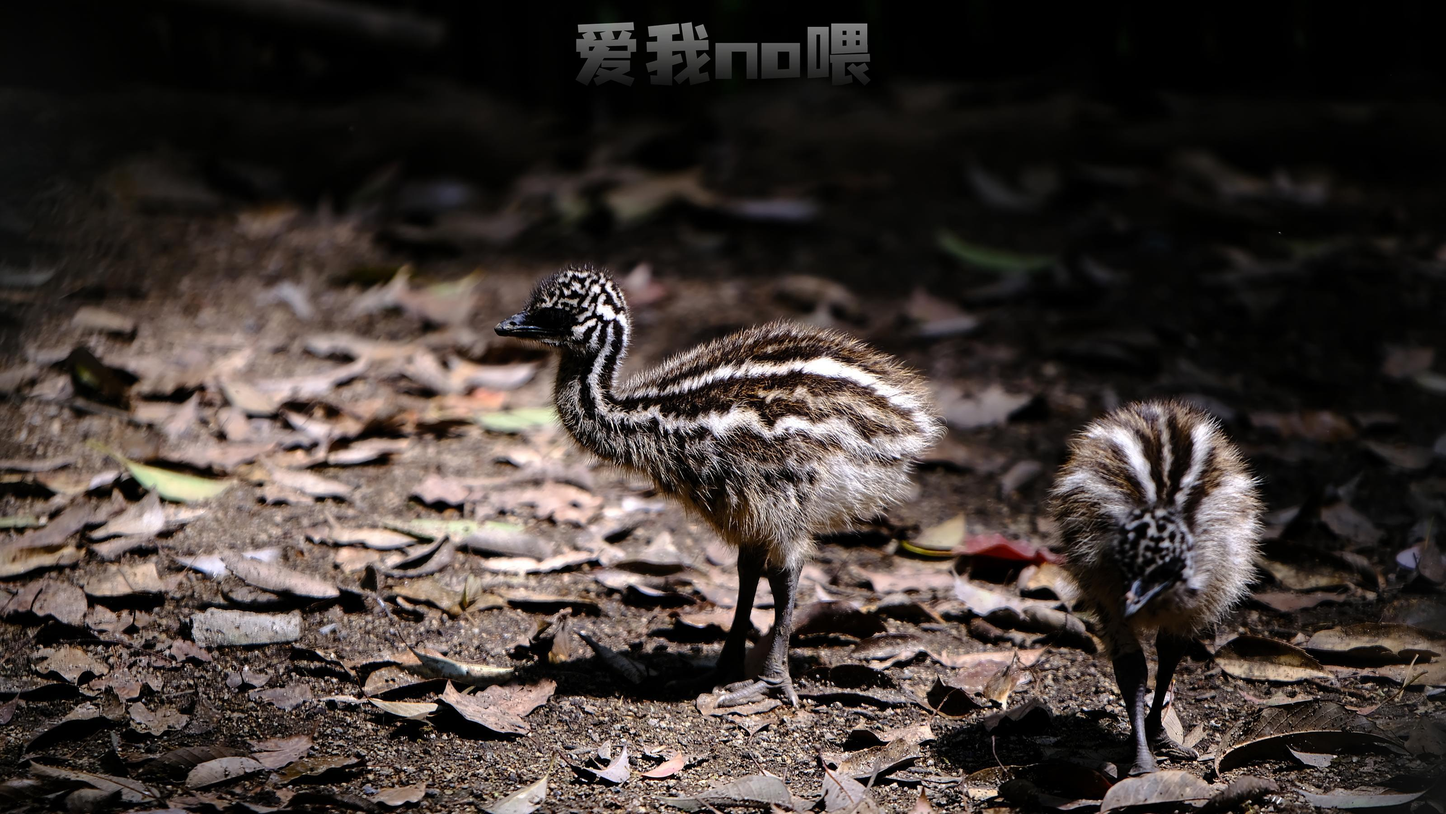
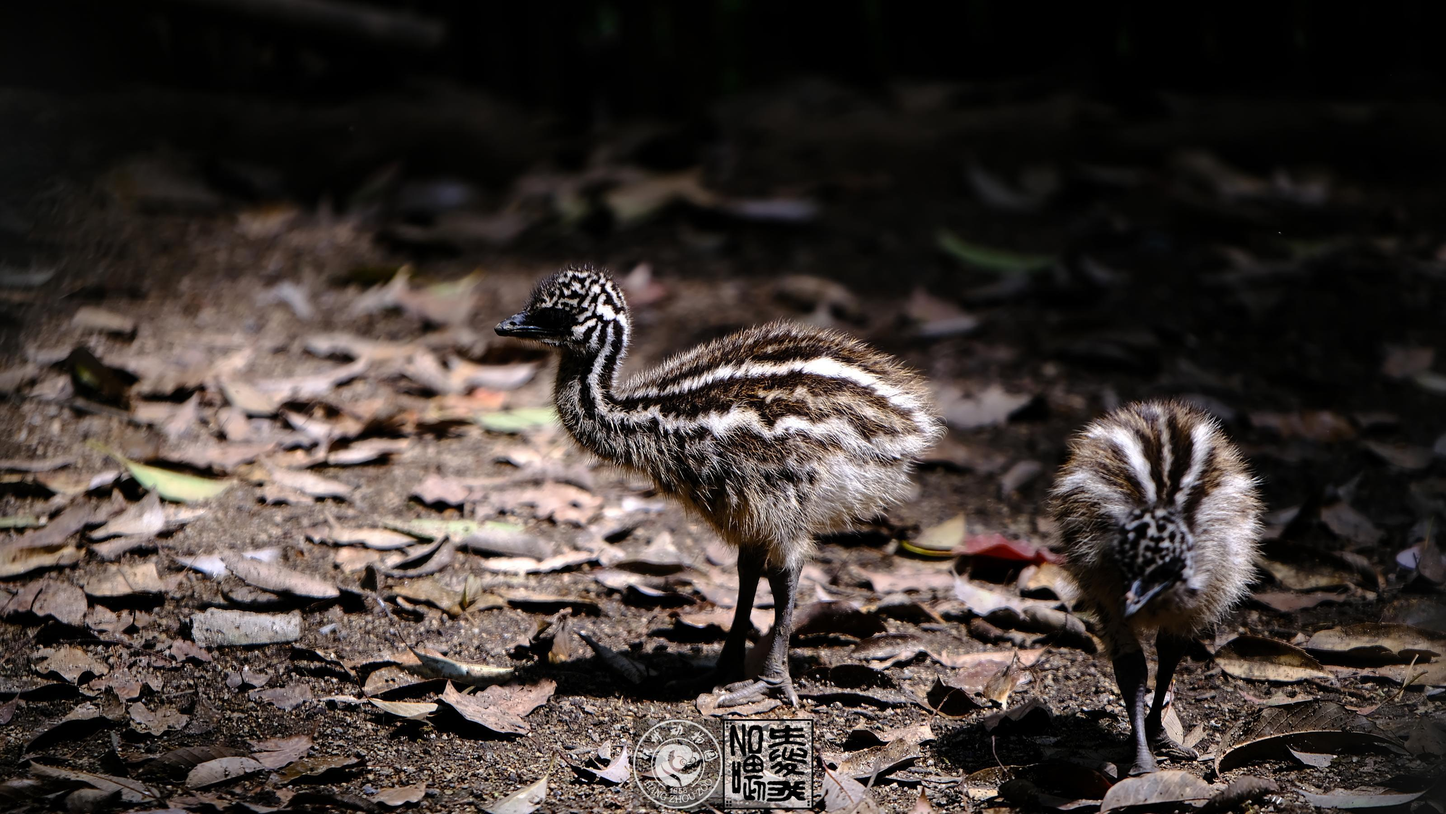
type: update level: normal comment: update water-ink design

Changed region(s): [[0.375, 0.0311, 0.625, 0.1244], [0.4375, 0.8706, 0.5625, 0.995]]

diff --git a/tools.py b/tools.py
@@ -543,14 +543,14 @@ layout: default
 
 if __name__ == '__main__':
     hp = HelloPhoto()
-    # hp.encrypt_raw(path_in='/home/zoo/_L/Zoo-HZ-Media-Volunteers/static/images/raw/202105/20210515ZouBinBin')
+    # hp.encrypt_raw(path_in='/home/zoo/_L/Zoo-HZ-Media-Volunteers/static/images/raw/202105/20210520WaterInk')
     # hp.create_page_info(_path_images_raw)
     # hp.render_all(do_filter=True)
     # hp.just_render_md()
     # hp.render_all()
     #
-    hp.render_markdown(
-        path_in='/home/zoo/_L/Zoo-HZ-Media-Volunteers/static/images/webp-resize-2000/202105/20210520WaterInk',
-        path_out='/home/zoo/_L/Zoo-HZ-Media-Volunteers/mds/webp-resize-2000/202105/20210520WaterInk.md'
-    )
-    hp.just_render_home_page()
+    # hp.render_markdown(
+    #     path_in='/home/zoo/_L/Zoo-HZ-Media-Volunteers/static/images/webp-resize-2000/202105/20210520WaterInk',
+    #     path_out='/home/zoo/_L/Zoo-HZ-Media-Volunteers/mds/webp-resize-2000/202105/20210520WaterInk.md'
+    # )
+    # hp.just_render_home_page()

diff --git a/mds/webp-resize-2000/202105/20210520WaterInk.md b/mds/webp-resize-2000/202105/20210520WaterInk.md
@@ -1,32 +1,41 @@
 ---
 layout: default
 ---
-### 摄影: WaterInk
-### 描述: 
+### 设计: 吴燕 潘雨朦 李超 周涛 章莹佳 徐玥 李大 徐淑凝 邹斌斌
+### 描述: 水印设计png & 效果图
 ### 提交时间: 20210520
+
+##### size: 0.08M
+![header.png](/Zoo-HZ-Media-Volunteers/static/images/webp-resize-2000/202105/20210520WaterInk/header.png)
 
 ##### size: 0.59M, 东方白鹳
 ![东方白鹳.JPG](/Zoo-HZ-Media-Volunteers/static/images/webp-resize-2000/202105/20210520WaterInk/东方白鹳.JPG)
 
-##### size: 0.16M, 
+##### size: 0.16M
 ![fix.吴燕.png](/Zoo-HZ-Media-Volunteers/static/images/webp-resize-2000/202105/20210520WaterInk/fix.吴燕.png)
+
+##### size: 0.26M, 双角犀鸟
+![双角犀鸟.JPG](/Zoo-HZ-Media-Volunteers/static/images/webp-resize-2000/202105/20210520WaterInk/双角犀鸟.JPG)
+
+##### size: 0.28M
+![fix.潘雨朦.黑.png](/Zoo-HZ-Media-Volunteers/static/images/webp-resize-2000/202105/20210520WaterInk/fix.潘雨朦.黑.png)
 
 ##### size: 0.25M, 大红鹳
 ![大红鹳.JPG](/Zoo-HZ-Media-Volunteers/static/images/webp-resize-2000/202105/20210520WaterInk/大红鹳.JPG)
 
-##### size: 0.18M, 
+##### size: 0.18M
 ![fix.李超.黑.png](/Zoo-HZ-Media-Volunteers/static/images/webp-resize-2000/202105/20210520WaterInk/fix.李超.黑.png)
 
-##### size: 0.42M, 孔雀
+##### size: 0.42M, 孔雀1
 ![孔雀.JPG](/Zoo-HZ-Media-Volunteers/static/images/webp-resize-2000/202105/20210520WaterInk/孔雀.JPG)
 
-##### size: 1.95M, 孔雀
+##### size: 1.95M, 孔雀2
 ![孔雀2.JPG](/Zoo-HZ-Media-Volunteers/static/images/webp-resize-2000/202105/20210520WaterInk/孔雀2.JPG)
 
-##### size: 0.39M, 
+##### size: 0.39M
 ![fix.周涛.设计1.黑.png](/Zoo-HZ-Media-Volunteers/static/images/webp-resize-2000/202105/20210520WaterInk/fix.周涛.设计1.黑.png)
 
-##### size: 0.27M, 
+##### size: 0.27M
 ![fix.周涛.设计2.黑.png](/Zoo-HZ-Media-Volunteers/static/images/webp-resize-2000/202105/20210520WaterInk/fix.周涛.设计2.黑.png)
 
 ##### size: 0.29M, 火烈鸟
@@ -38,25 +47,25 @@ layout: default
 ##### size: 0.24M, 花冠皱盔犀鸟
 ![花冠皱盔犀鸟.JPG](/Zoo-HZ-Media-Volunteers/static/images/webp-resize-2000/202105/20210520WaterInk/花冠皱盔犀鸟.JPG)
 
-##### size: 0.09M, 
+##### size: 0.09M
 ![fix.徐玥.黑.png](/Zoo-HZ-Media-Volunteers/static/images/webp-resize-2000/202105/20210520WaterInk/fix.徐玥.黑.png)
 
 ##### size: 0.66M, 鸸鹋
 ![鸸鹋.JPG](/Zoo-HZ-Media-Volunteers/static/images/webp-resize-2000/202105/20210520WaterInk/鸸鹋.JPG)
 
-##### size: 0.11M, 
-![fix.李大.png](/Zoo-HZ-Media-Volunteers/static/images/webp-resize-2000/202105/20210520WaterInk/fix.李大.png)
+##### size: 0.28M
+![fix.邹斌斌.png](/Zoo-HZ-Media-Volunteers/static/images/webp-resize-2000/202105/20210520WaterInk/fix.邹斌斌.png)
 
-##### size: 0.42M, 鹈鹕
+##### size: 0.4M, 鹈鹕
 ![鹈鹕.jpg](/Zoo-HZ-Media-Volunteers/static/images/webp-resize-2000/202105/20210520WaterInk/鹈鹕.jpg)
 
-##### size: 0.28M, 
-![fix.邹斌斌.png](/Zoo-HZ-Media-Volunteers/static/images/webp-resize-2000/202105/20210520WaterInk/fix.邹斌斌.png)
+##### size: 0.11M
+![fix.李大.png](/Zoo-HZ-Media-Volunteers/static/images/webp-resize-2000/202105/20210520WaterInk/fix.李大.png)
 
 ##### size: 0.32M, 黑天鹅
 ![黑天鹅.JPG](/Zoo-HZ-Media-Volunteers/static/images/webp-resize-2000/202105/20210520WaterInk/黑天鹅.JPG)
 
-##### size: 0.11M, 
+##### size: 0.11M
 ![fix.徐淑凝.黑.png](/Zoo-HZ-Media-Volunteers/static/images/webp-resize-2000/202105/20210520WaterInk/fix.徐淑凝.黑.png)
 
 
